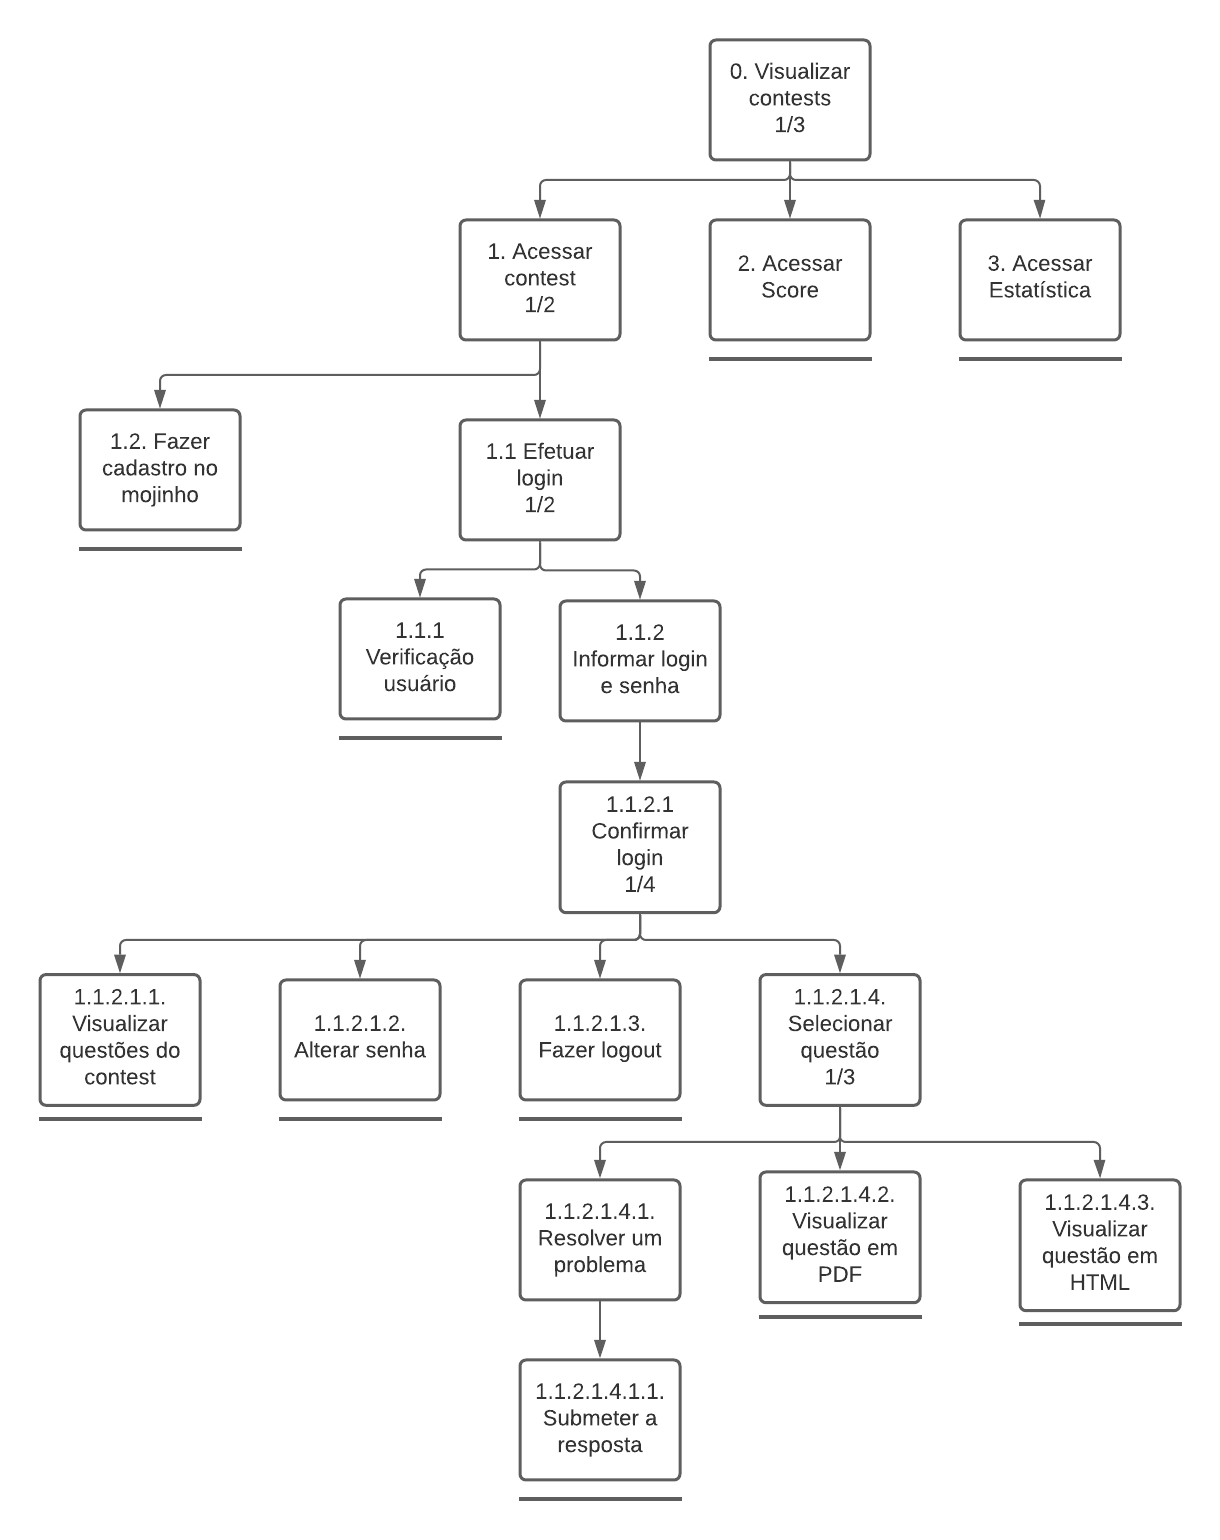
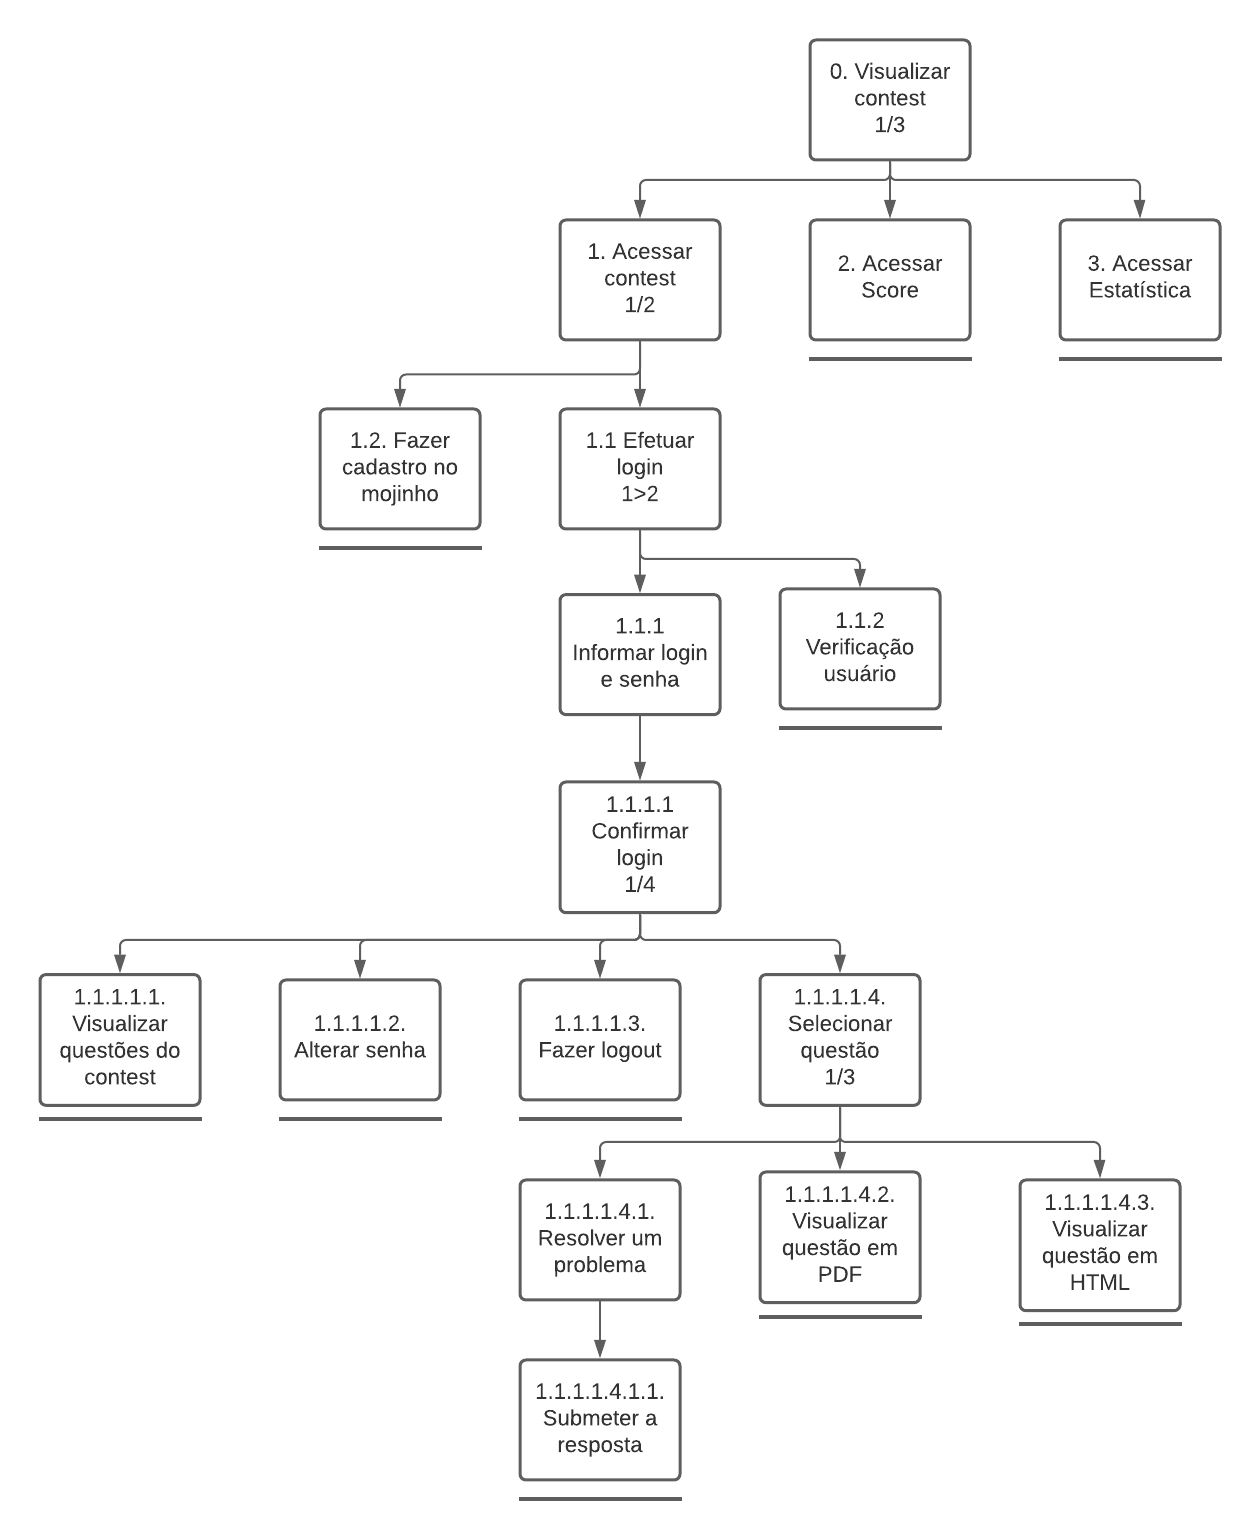
Correção documentos de análise de tarefas

diff --git a/docs/analise_tarefas/hta.md b/docs/analise_tarefas/hta.md
@@ -3,7 +3,7 @@
 ## 1. Introdução
 
 <p style="text-indent: 20px; text-align: justify">
-Análise de tarefas é parte de maior foco da área de interação humano computador, pois se preocupa com a perfomance do trabalho, e isso é o que a distingue de outras técnicas. Uma abordagem sistemática é adotada para descrever as propriedades dos modelos usados na análise de tarefas. Tem como objetivo fornecer ao designer a visão dos usuários em relação as tarefas que eles precisam executar (Diaper e Stanton, 2004).
+Análise de tarefas é a parte de maior foco da área de interação humano computador, pois se preocupa com a performance do trabalho, e isso é o que a distingue de outras técnicas. Uma abordagem sistemática é adotada para descrever as propriedades dos modelos usados na análise de tarefas. Tem como objetivo fornecer ao designer a visão dos usuários em relação as tarefas que eles precisam executar (Diaper e Stanton, 2004).
 </p>
 
 ## 2. Motivo da escolha
@@ -15,14 +15,14 @@ Decidimos utilizar esta técnica pois ela fornece uma abordagem genérica para a
 ## 3. Análise Hierárquica de Tarefas (HTA)
 
 <p style="text-indent: 20px; text-align: justify">
-A Análise Hierárquica de Tarefas (HTA – Hierarchical Task Analysis) foi desenvolvida na década de 1960 para entender as competências e habilidades exibidas em tarefas complexas e não repetitivas, bem como para auxiliar na identificação de problemas de desempenho (Annett, 2003; Annett e Duncan, 1967). Ela ajuda a relacionar o que as pessoas fazem (ou se recomenda que façam), por que o fazem, e quais as consequências caso não o façam corretamente. Ela se baseia em psicologia funcional, e não comportamental, como eram as abordagens da época em que foi criada.
+A Análise Hierárquica de Tarefas (HTA – Hierarchical Task Analysis) foi desenvolvida para entender as competências e habilidades exibidas em tarefas complexas e não repetitivas, e também para auxiliar na identificação de problemas de desempenho. Ela ajuda em relacionar o que as pessoas fazem, por que o fazem, e quais os efeitos caso não o façam corretamente (Barbosa e Silva, 2010).
 </p>
 
 ### 3.1 Diagrama HTA para realizar contest como aluno
 
-![Análise Tarefas Aluno](assets/HTA/analise_tarefas_aluno.png)
+![Análise Tarefas Aluno](../assets/HTA/analise_tarefas_aluno.png)
 
-[Link para a imagem](https://drive.google.com/file/d/1MWAL075PYXDHrhDTQtB_pG9gjrz8nmiK/view?usp=sharing)
+[Link para a imagem](https://drive.google.com/file/d/1D3by97Q26qjwLTQ1bDk3wJxA5yoi6BLn/view?usp=sharing)
 
 ### 3.2 Representação de Tarefas para o objetivo de realizar contest como aluno
 
@@ -48,9 +48,9 @@ A Análise Hierárquica de Tarefas (HTA – Hierarchical Task Analysis) foi dese
 
 ### 3.3 Diagrama HTA para gerenciar contest como professor
 
-![Análise Tarefas Professor](assets/HTA/analise_tarefas_professor.png)
+![Análise Tarefas Professor](../assets/HTA/analise_tarefas_professor.png)
 
-[Link para a imagem](https://drive.google.com/file/d/1j1EAjElgZhMXrrXko1WGDTirLr8zLlM8/view?usp=sharing)
+[Link para a imagem](https://drive.google.com/file/d/14seE0yRKw8f-yGqRkEKR9H-whrxnGX3R/view?usp=sharing)
 
 ### 3.4 Representação de Tarefas para o objetivo de gerenciar contest como professor
 
@@ -83,3 +83,4 @@ A Análise Hierárquica de Tarefas (HTA – Hierarchical Task Analysis) foi dese
 | 1.0 | 03/10/2020 | Criação documento de análise de tarefas | Todos os integrantes |
 | 1.1 | 03/10/2020 | Ajustes gerais ao documento de análise de tarefas | Todos os integrantes |
 | 1.2 | 03/10/2020 | Atualização dos links das imagens do documento de análise de tarefas | Thiago Lopes |
+| 1.3 | 03/10/2020 | Correção gerais nos textos e diagramas | Igor Paiva |

diff --git a/docs/analise_tarefas/goms.md b/docs/analise_tarefas/goms.md
@@ -15,7 +15,7 @@ O modelo GOMS (Goals, Operators, Methods, and Selection Rules) é um método par
 ## 3. Motivo da escolha
 
 <p style="text-indent: 20px; text-align: justify">
-Nós decidimos utilizar o GOMS pois ele pode ser usado tanto para prever a performance da tarefa quanto substituir testes de usuário empíricos necessários para chegar a um design que é tanto funcional quando utilizável. Mais especificamente decidimos utilizar o CNM-GOMS porque a análise é executável, qualquer exigência da tarefa pode ser simulada seguindo caminhos diferentes, dependendo da cada tarefa (Barbosa e Silva, 2010).
+Nós decidimos utilizar o GOMS pois ele pode ser usado tanto para prever a performance da tarefa quanto substituir testes de usuário empíricos necessários para chegar a um design que é tanto funcional quando utilizável. Mais especificamente decidimos utilizar o CNM-GOMS porque a análise é executável, qualquer exigência da tarefa pode ser simulada seguindo caminhos diferentes, dependendo de cada tarefa (Barbosa e Silva, 2010).
 </p>
 
 ## 4. Objetivos
